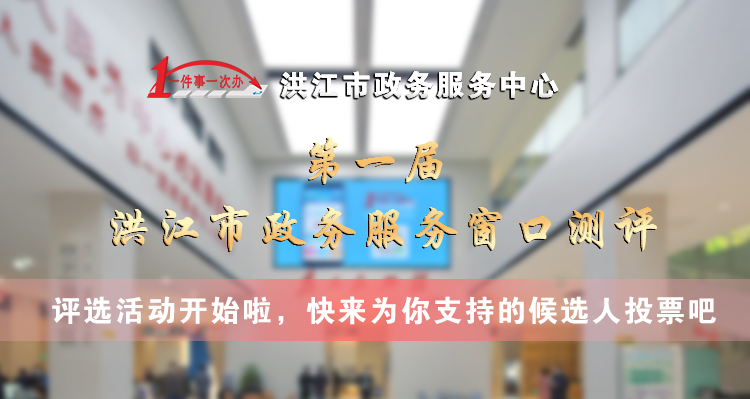
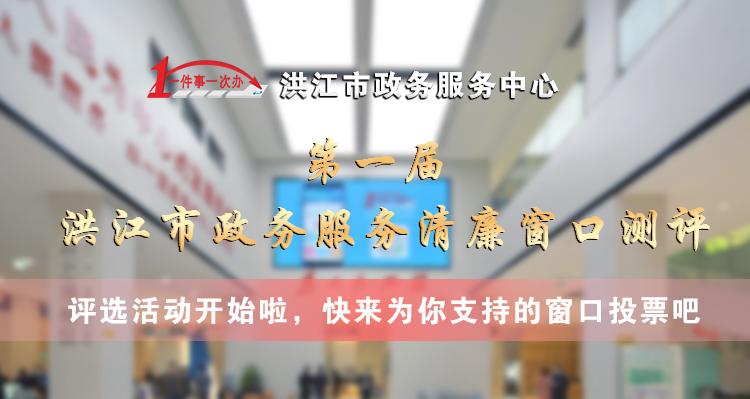
update for prod

diff --git a/src/views/Index.vue b/src/views/Index.vue
@@ -3,6 +3,12 @@
         <PublicHeader></PublicHeader>
 
         <div class="list-container">
+          <van-dialog v-model="showBigImage" title=" ">
+            <div class="big-img">
+                          <img :src="bigImageUrl" />
+            </div>
+
+          </van-dialog>
           <div class="u-search">
             <van-search
                 v-model="value"
@@ -19,11 +25,15 @@
           <div v-if="list.length > 0">
             <van-grid :column-num="2" :gutter="14" :border="false">
               <van-grid-item v-for="user in list" :key="user.id">
-                <img v-lazy="user.creatives[0].curl" alt="" class="item-image">
+                <!-- <img v-lazy="user.creatives[0].curl" alt="" class="item-image"> -->
+
+                <div class="item-image-container" @click="clickShowBig(user.creatives[0].curl)">
+                    <img v-lazy="user.creatives[0].curl" alt="" class="item-image">
+                </div>
                 <div class="grid-item-bottom" @click="onVote(user.id)">
                   <div class="grid-item-bottom-info">
-                    <div>{{user.no}}号</div>
-                    <div>{{user.name}}</div>
+                    <div>{{user.item_no}}号</div>
+                    <div>{{user.name}}窗口</div>
                   </div>
                   <div class="grid-item-bottom-button">
                     投票
@@ -34,6 +44,7 @@
           </div>
           <div v-else class="no-joiner">
             还没有任何候选窗口哦~
+            <van-button plain hairline type="info" size="small" @click="init()">刷新</van-button>
           </div>
 
 <!--          <VoteCard></VoteCard>-->
@@ -47,7 +58,7 @@
     import PublicHeader from "@/components/PublicHeader";
     import BottomNav from "@/components/BottomNav";
     import VoteCard from "@/components/VoteCard";
-    import default_goods_img from "@/assets/rw.jpeg";
+    // import default_goods_img from "@/assets/rw1.jpg";
 
     import {tLogin} from "@/api/test";
     import {init as fInit} from "@/api";
@@ -59,9 +70,11 @@
           return {
             value: '',
             noteMsg:'请输入窗口编号',
-            default_goods_img: default_goods_img,
+            // default_goods_img: default_goods_img,
             list: [],
             c_id:0,
+            showBigImage: false,
+            bigImageUrl:''
           };
         },
         components: {
@@ -74,6 +87,10 @@
             // console.log(this.$store.state.openId);
         },
         methods: {
+            clickShowBig(url) {
+              this.bigImageUrl = url;
+              this.showBigImage = true;
+            },
             init: function () {
 
               /**
@@ -90,7 +107,8 @@
                   let data = response.data;
 
                 if (data.hasOwnProperty('code')) {
-                  that.$toast('网络忙，请稍后再试！');
+                  that.$toast('网络忙，请刷新重试！');
+                  that.list = [];
                   return false;
                 }
 
@@ -98,13 +116,17 @@
                     let ttl = data.ttl * 1000;
                     that.$store.commit('setActiveTime', ttl);
                     that.list = data.items;
+                    // console.log(data.items[0]);
+
+                    // that.list.push(data.items[0]);
+                    // that.list.push(data.items[0]);               
                     that.$store.commit('setCid', that.list[0].campaign_id);
                   }
 
                   return false;
               }).catch(e => {
                 console.log(e);
-                that.$toast('网络繁忙,请稍后再试~');
+                // that.$toast('网络繁忙,请稍后再试~');
               });
 
             },
@@ -150,7 +172,6 @@
                 return false;
               }
 
-              console.log(id);
               // 跳转到个人页面
               this.$router.push({
                 name: "Vote",
@@ -167,7 +188,7 @@
   .container{
     width: 100%;
     position: relative;
-    padding-bottom: 100px;
+    padding-bottom: 180px;
   }
 
   .u-search{
@@ -217,5 +238,19 @@
 
   .no-joiner{
     padding-top: 60px;
+    width:600px;
+    margin:0 auto;
   }
+
+
+  .item-image-container{
+    width:301px;
+    height: 254px;
+  }
+
+
+  .big-img img{
+    max-width:580px;
+  }
+
 </style>

diff --git a/src/views/Vote.vue b/src/views/Vote.vue
@@ -40,11 +40,11 @@
 
       <div class="base-info">
         <div class="u-name">
-          {{ user.name }}
+          {{ user.name }}窗口
         </div>
         <div class="u-unit">
-          好评数： {{ user.upvote }},
-          差评数： {{ user.downvote }}
+          好评数： {{ user.upvotes }},
+          差评数： {{ user.downvotes }}
         </div>
       </div>
 
@@ -112,6 +112,14 @@
             type="textarea"
             placeholder="具体事由"
         />
+        <van-field
+            v-model="gpitem"
+            rows="1"
+            autosize
+            label="事项"
+            type="textarea"
+            placeholder="期望高频事项"
+        />
       </div>
     </div>
 
@@ -134,7 +142,6 @@ import html2canvas from 'html2canvas';
 import QRCode from 'qrcodejs2';
 
 import PublicHeader from "@/components/PublicHeader";
-import default_goods_img from "@/assets/rw.jpeg";
 import share_background_img from "@/assets/header.jpeg";
 import {user, vote, sms} from "@/api";
 
@@ -169,11 +176,11 @@ export default {
     return {
       nc_show:true,
       is_disable: false,
-      default_goods_img: default_goods_img,
       share_background_img: share_background_img,
       sms: '',
       tel: '',
       message: '',
+      gpitem:'',
       radio: '1',
       user: {
         'err': 1
@@ -291,6 +298,13 @@ export default {
       let that = this;
       that.smsBtnDisable = true;
 
+      let tel = that.tel;
+      if (!(/^1[3456789]\d{9}$/.test(tel))) {
+        that.$toast('手机号格式不正确~');
+        that.smsBtnDisable = false;
+        return false;
+      }
+
       if (
             that.sessionId.length === 0 || 
             that.sig.length === 0 || 
@@ -301,19 +315,11 @@ export default {
           return;
       }
 
-      let tel = that.tel;
-      if (!(/^1[3456789]\d{9}$/.test(tel))) {
-        that.$toast('手机号格式不正确~');
-        that.smsBtnDisable = false;
-        return false;
-      }
-
       let requestData = {
-        sessionId:that.sessionId,
+        session:that.sessionId,
         sig:that.sig,
         token:that.token,
         ci:that.$store.state.c_id,
-        code:123,
         phone:that.tel
       };
 
@@ -323,6 +329,8 @@ export default {
           that.$toast(data.msg);
           that.smsBtnDisable = false;
           that.stillSetInterval = false;
+          that.resetNcData();
+          window.nc.reset();
           return false;
         } else {
           that.$toast('验证码已发送至您的手机,请注意查收~');
@@ -343,7 +351,7 @@ export default {
       let countDown = 60;
 
       function set60time(obj) {
-        console.log(countDown);
+        // console.log(countDown);
 
         if (countDown <= 0) {
           if (obj.interval !== 0) {
@@ -375,16 +383,6 @@ export default {
 
       let that = this;
 
-      if (
-            that.sessionId.length === 0 || 
-            that.sig.length === 0 || 
-            that.token.length === 0
-        ) {
-          that.$toast('请先滑动进行验证~');
-          this.is_disable = false;
-          return;
-      }
-
       let type = parseInt(that.radio);
       let tel = that.tel;
       let message = that.message;
@@ -403,6 +401,16 @@ export default {
         return false;
       }
 
+      if (
+            that.sessionId.length === 0 || 
+            that.sig.length === 0 || 
+            that.token.length === 0
+        ) {
+          that.$toast('请先滑动进行验证~');
+          this.is_disable = false;
+          return;
+      }
+
       if (type === 2 && sms.length === 0) {
         that.$toast('请填写短信验证码~');
         that.is_disable = false;
@@ -419,8 +427,8 @@ export default {
         ids: [that.user.id],
         type: type,
         phone: that.tel,
-        message: that.message,
-        vcode: that.sms,
+        message: that.message+"shixiang999@|"+that.gpitem,
+        vcode: that.sms
       };
 
       // 投票

diff --git a/src/views/Introduce.vue b/src/views/Introduce.vue
@@ -6,14 +6,7 @@
       <div class="intro-info">
 
       <div class="intro-info-1">
-<!--         深入贯彻中央和省委、市委、区委全会精神，迎接党的
-        二十大召开，从党的百年历程中汲取智慧力量、从感悟
-        初心使命中砥砺责任担当，践行全心全意为人民服务的
-        工作理念，以“向祖国报告”为主题，结合全国第六批社
-        会管理和公共服务综合标准化试点项目建设，实现服务
-        机制、服务水平、服务意识、服务能力、服务效果“五
-        大提升”。 -->
-        为进一步落实“放管服”改革及“清廉大厅”建设，为办事企业群众提供廉洁高效、贴心周到的政务服务，特开展“待亲人、办家事”清廉窗口测评活动。
+        为进一步落实“放管服”改革及“清廉大厅”建设，为办事企业群众提供廉洁高效、贴心周到的政务服务，特开展清廉窗口测评活动。
       </div>
 
         <div class="intro-info-2">
@@ -25,7 +18,7 @@
             投票说明
           </div>
           <div class="intro-info-ruler-item">
-            1、投票时间: 3月20日(周三) 00:00-3月25日 (周日)
+            1、投票时间: 4月6日(周三) 00:00-4月22日 (周五)
             24:00;
           </div>
           <div class="intro-info-ruler-item">

diff --git a/src/views/Range.vue b/src/views/Range.vue
@@ -11,8 +11,8 @@
               v-for="(item, index) in list"
               v-bind:class="[(new Set([0,1,2])).has(index) ? 'number-'+index : '']"
           >
-            <div class="range-base"><span>{{ index+ 1}}</span><span>{{item.name}}</span></div>
-            <div class="range-tickets">{{item.upvote}}<span>票</span></div>
+            <div class="range-base"><span>{{ index+ 1}}</span><span>{{item.name}}窗口</span></div>
+            <div class="range-tickets">{{item.upvotes}}<span>票</span></div>
           </li>
         </ul>
       </div>
@@ -25,7 +25,6 @@
 import PublicHeader from "@/components/PublicHeader";
 import BottomNav from "@/components/BottomNav";
 import {range} from "@/api";
-import default_goods_img from "@/assets/rw.jpeg";
 
 export default {
   name: "Range",
@@ -68,7 +67,7 @@ export default {
 <style scoped>
 
   .range-container{
-    padding-bottom: 100px;
+    padding-bottom: 160px;
   }
   ul{
     padding: 20px;

diff --git a/src/api/index.js b/src/api/index.js
@@ -86,11 +86,11 @@ export function search(requestData) {
  * @returns {*}
  */
 export function vote(requestData, c_id) {
-    let data = stringify(requestData);
+    // let data = stringify(requestData);
     return request({
         url: '/item?ci='+c_id,
         method: 'post',
-        data
+        data: requestData
     })
 }
 
@@ -106,7 +106,7 @@ export function sms(requestData) {
     return request({
         url: '/verify/sms',
         method: 'post',
-        data
+        data: requestData
     })
 }
 

diff --git a/vue.config.js b/vue.config.js
@@ -4,7 +4,7 @@ module.exports = {
     devServer: {
         proxy: {
             '/api': {
-                target: 'http://voteme.joycegrils.com/',
+                target: 'http://voteme.joycegrils.com/api',
                 ws: false,
                 changeOrigin: true,
                 // pathRewrite: { '^/api': '' },

diff --git a/public/index.html b/public/index.html
@@ -21,7 +21,7 @@
   </body>
   <style type="text/css" class="nc-style">
     .nc-container #nc_1_wrapper {
-    width: 100%;
+    width: 100% !important;
     height: 34px;
     font-size: 12px;
     line-height: 34px;
